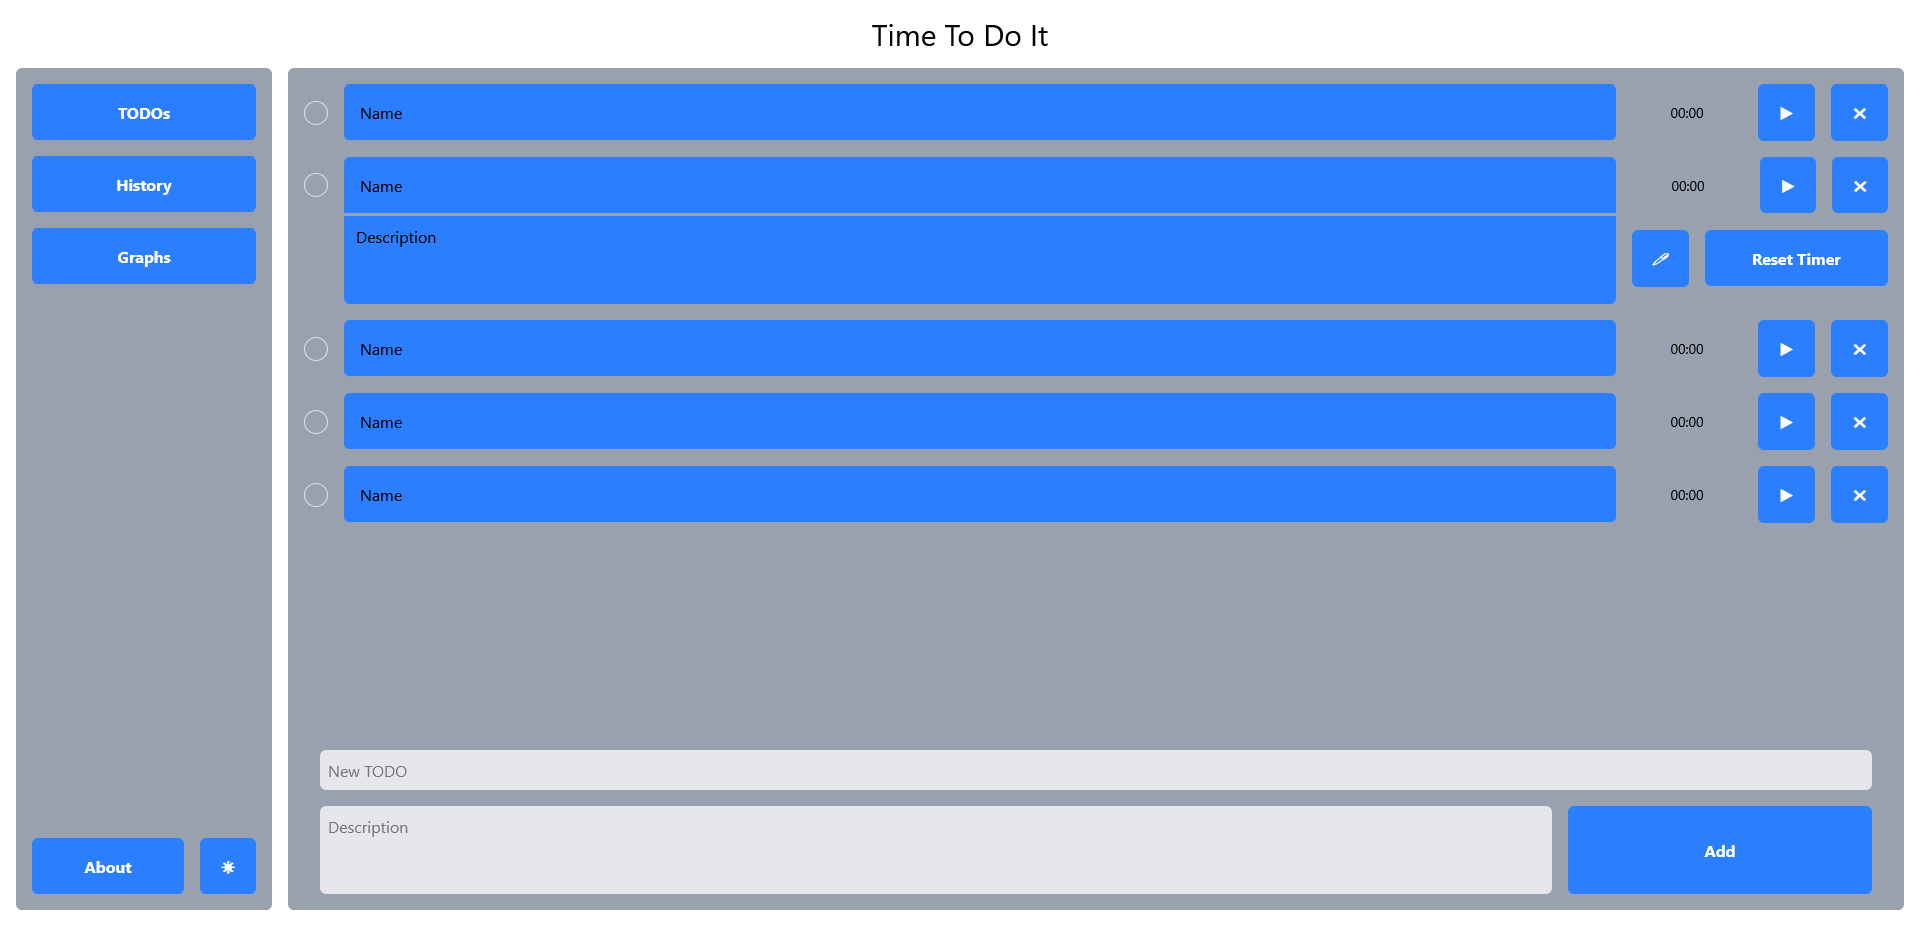
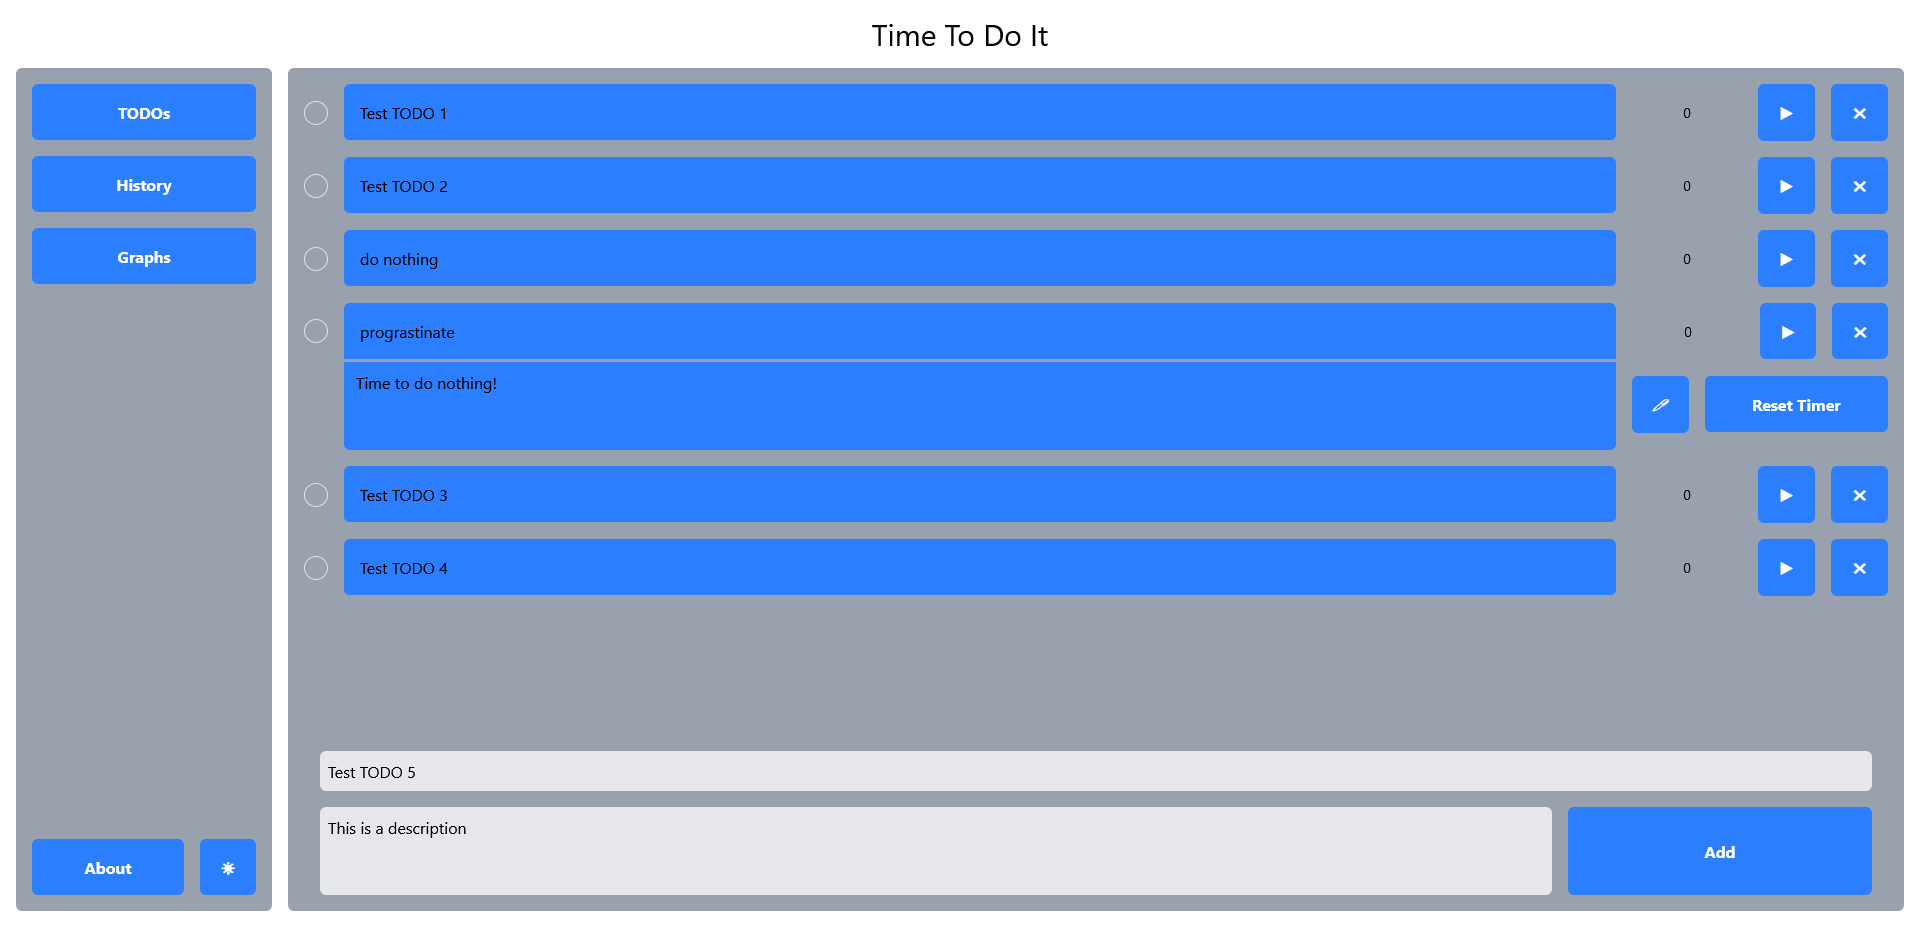
when adding a new element the input fields to do so clear themselfs now + updated screenshot

diff --git a/src/components/new-to-do-element.component.tsx b/src/components/new-to-do-element.component.tsx
@@ -2,31 +2,39 @@ import { useState } from "react";
 import { Button } from "./button.component";
 
 interface NewToDoElementProps {
-	onAdd: (title: string, description: string) => void;
+    onAdd: (title: string, description: string) => void;
 }
 
 export function NewToDoElement({ onAdd }: NewToDoElementProps) {
-	const [title, setTitle] = useState("");
-	const [description, setDescription] = useState("");
+    const [title, setTitle] = useState("");
+    const [description, setDescription] = useState("");
 
     return (
         <div className="flex flex-col gap-y-4 px-4 rounded-md">
             <input
                 type="text"
                 placeholder="New TODO"
-				value={title}
-				onChange={(e) => setTitle(e.target.value)}
+                value={title}
+                onChange={(e) => setTitle(e.target.value)}
                 className="w-full p-2 rounded-md bg-gray-200 focus:outline-none focus:ring-2 focus:ring-blue-500"
             />
             <div className="flex flex-row gap-4">
                 <textarea
                     placeholder="Description"
-					value={description}
-					onChange={(e) => setDescription(e.target.value)}
+                    value={description}
+                    onChange={(e) => setDescription(e.target.value)}
                     className="w-full p-2 rounded-md bg-gray-200 focus:outline-none focus:ring-2 focus:ring-blue-500 resize-none"
                     rows={3}
                 />
-                <Button className="w-sm" label="Add" callback={() => onAdd(title, description)} />
+                <Button
+                    className="w-sm"
+                    label="Add"
+                    callback={() => {
+                        onAdd(title, description);
+                        setTitle("");
+                        setDescription("");
+                    }}
+                />
             </div>
         </div>
     );

diff --git a/src/pages/TODO.page.tsx b/src/pages/TODO.page.tsx
@@ -51,14 +51,15 @@ export function TODO() {
     };
 
     const getHTMLElements = () => {
-        return toDoElements.map((element) => (
+        return toDoElements.map((element, index) => (
             <ToDoListElement
 				name={element.name}
 				description={element.description}
 				time={element.time}
                 key={element.id}
                 onRemove={() => handleRemoveToDo(element.id)}
-                selected={selectedElementID === element.id}
+                // selected={selectedElementID === element.id}
+				selected={index === 3}
             />
         ));
     };
